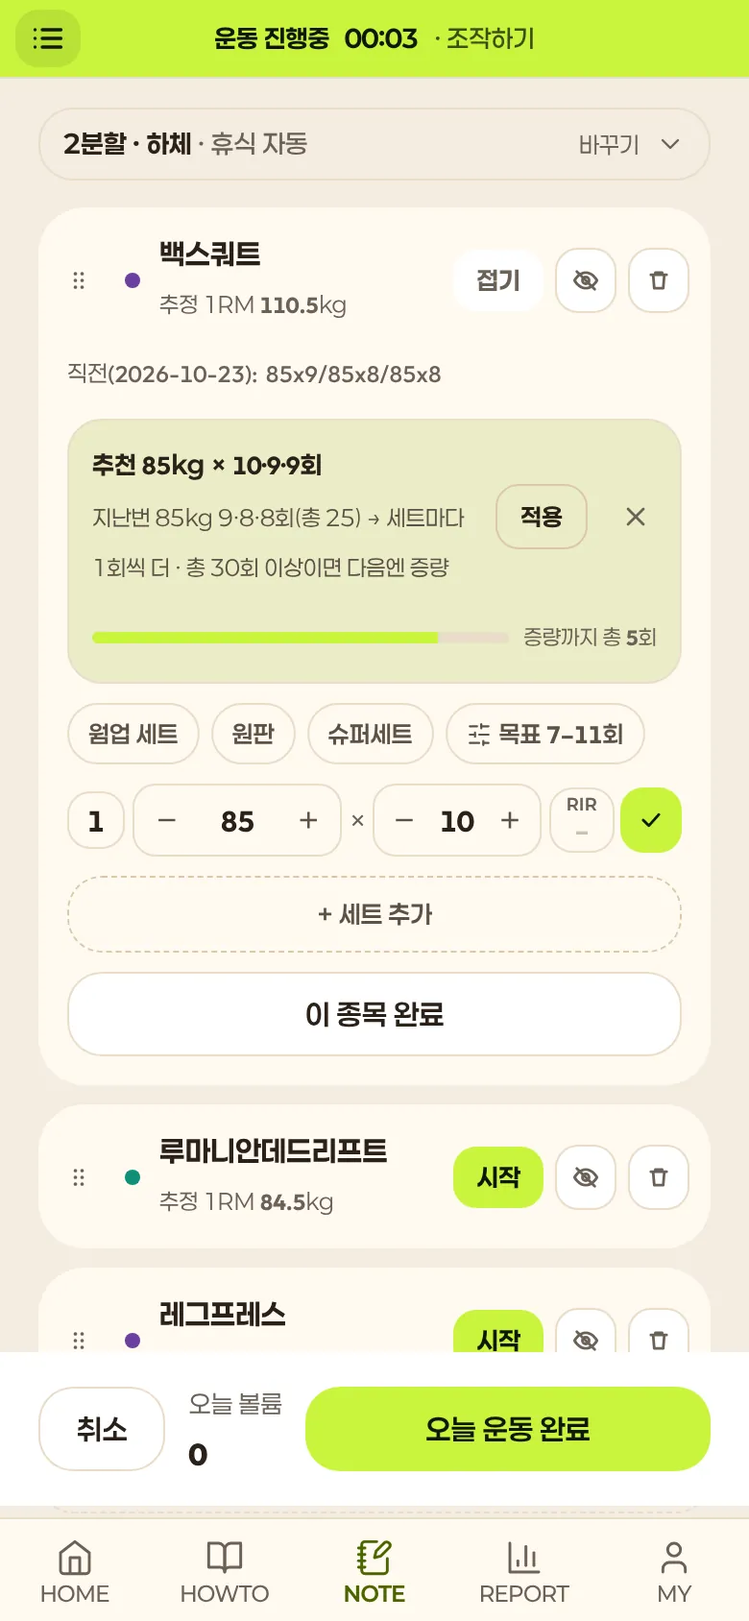
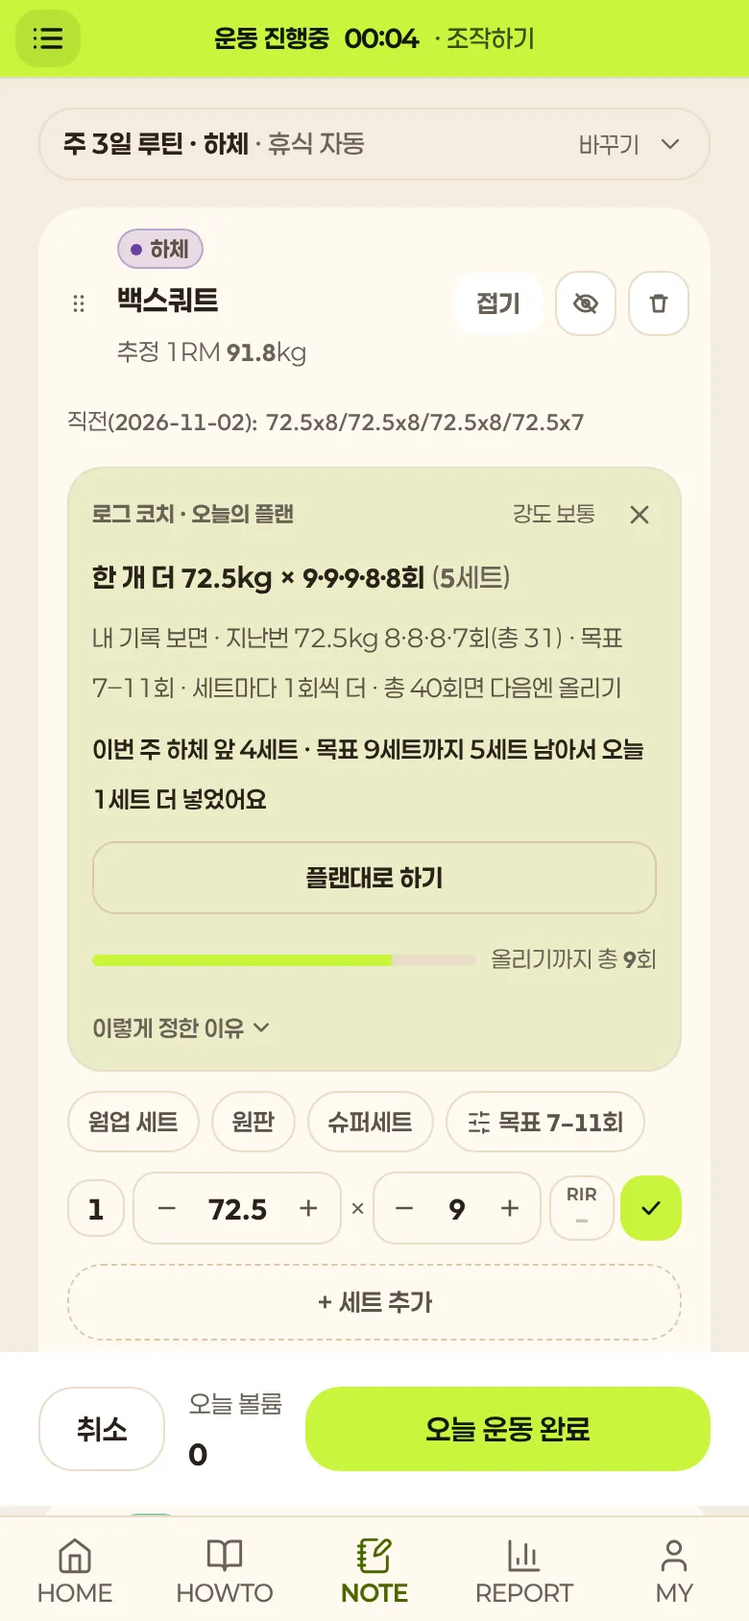
홍보 페이지 최근 업데이트 반영: 로그 코치·주간 프로그램·건강 체력 4가지·체력 점검·트레이너 처방
새 섹션 #coach, 사용법 01·05 문구, PT 섹션 처방, FAQ 2건, 앱 화면 재캡처(list·focus·ptplan·trainer·report) + cap-coach·cap-fitness

Claude-Session: https://claude.ai/code/session_01KGz5zMPNf1Zxehh3rqVVqo

diff --git a/public/intro/index.html b/public/intro/index.html
@@ -3,13 +3,14 @@
      2026-10-31 P2-4: 트레이너 섹션을 트레이너 계획·기록 확인 흐름(트레이너/회원 화면 캡처)으로, 회원 전용·승인 안내 반영.
      앱 기능·규칙이 바뀌면 이 페이지 문구와 데모 규칙(이중 진행, utils/strength.js)도 함께 맞춘다.
      사진: Unsplash(상업 사용 가능, 로고 지움) img/photo-*.webp · 앱 화면: 목업 데이터 캡처 img/cap-*.webp
+     2026-11-07: 로그 코치(오늘의 플랜·강도·내 프로그램 만들기)·건강 체력 4가지·체력 점검 섹션(#coach), 트레이너 처방(로그 코치보다 먼저), 앱 화면 재캡처(list·focus·ptplan·trainer·report + coach·fitness)
      2026-10-31: 줄바꿈은 뜻이 바뀌는 곳에서만(.s.nl), 말덩이(.k) 중간에선 안 끊김 - 문장마다 새 줄은 줄이 너무 많아져 쓰지 않음, 과부하 데모를 '지난번 기록' 표기(횟수만 선택)로, '운동을 돕는 것들'·PT 일정·트레이너 소개·회원권 FAQ, 처리방침·라이선스 링크 -->
 <html lang="ko">
 <head>
 <meta charset="UTF-8" />
 <meta name="viewport" content="width=device-width, initial-scale=1.0, viewport-fit=cover" />
 <title>BodyTailor Log | 내 운동을 기록하면 다음 목표가 보여요</title>
-<meta name="description" content="혼자 하는 날도, PT 받는 날도 이어지는 운동 기록. 분할 예시나 트레이너의 루틴으로 시작하고, 지난번의 나를 기준으로 오늘 몇 kg, 몇 번 할지 알려 주는 바디테일러 PT&amp;헬스 회원용 웨이트 운동 기록 웹앱." />
+<meta name="description" content="혼자 하는 날도, PT 받는 날도 이어지는 운동 기록. 분할 예시, 로그 코치 프로그램, 트레이너의 루틴으로 시작하고, 지난번의 나를 기준으로 오늘 몇 kg, 몇 번 할지 알려 주는 바디테일러 PT&amp;헬스 회원용 웨이트 운동 기록 웹앱." />
 <link rel="canonical" href="https://bodytailor-log.vercel.app/intro/" />
 <!-- 카카오톡 등 인앱 브라우저 → 기본 브라우저로(구글 로그인·홈 화면 추가는 기본 브라우저에서만 됨) -->
 <script src="/inapp.js"></script>
@@ -270,9 +271,9 @@ p,dd,.why,.foot{text-wrap:pretty}
   <div class="wrap">
     <div class="label rv">이렇게 이어져요</div>
     <h2 class="rv d1">계획은 나 또는 트레이너가,<br>기준은 내 기록이에요</h2>
-    <p class="lead rv d2"><span class="s"><span class="k">처음엔 분할 예시나</span> <span class="k">트레이너에게 배운 루틴으로</span> <span class="k">시작하세요.</span></span><span class="s nl"><span class="k">기록이 쌓이면</span> <span class="k">그 기록이 다음 목표가 되고,</span> <span class="k">내 몸에 맞게</span> <span class="k">조금씩 고쳐 가요.</span></span></p>
+    <p class="lead rv d2"><span class="s"><span class="k">처음엔 분할 예시,</span> <span class="k">로그 코치 프로그램,</span> <span class="k">트레이너에게 배운 루틴 중</span> <span class="k">하나로 시작하세요.</span></span><span class="s nl"><span class="k">기록이 쌓이면</span> <span class="k">그 기록이 다음 목표가 되고,</span> <span class="k">내 몸에 맞게</span> <span class="k">조금씩 고쳐 가요.</span></span></p>
     <div class="compare flow rv">
-      <div class="r"><span class="q">계획</span><span class="u">분할 예시로 시작하거나, <em>PT에서 배운 루틴</em>을 그대로 옮겨요</span></div>
+      <div class="r"><span class="q">계획</span><span class="u"><span class="k">분할 예시나 코치 프로그램으로 시작하거나,</span> <span class="k"><em>PT에서 배운 루틴</em>을 그대로 옮겨요</span></span></div>
       <div class="r"><span class="q">기록</span><span class="u">세트 끝나면 <em>체크 한 번</em></span></div>
       <div class="r"><span class="q">기준</span><span class="u"><em>지난번의 나</em></span></div>
       <div class="r"><span class="q">다음 목표</span><span class="u"><span class="k">1회씩</span>, 한 칸씩 <em>조금 더</em></span></div>
@@ -290,11 +291,11 @@ p,dd,.why,.foot{text-wrap:pretty}
 
 <section id="how" data-tone="dark" style="padding-top:90px">
   <div class="wrap">
-    <div class="feat rv"><div class="txt"><div class="n">01</div><h3>하던 운동을 고르면<br>오늘 목표가 나와요</h3><p><span class="s">종목을 다 볼 필요 없어요.</span><span class="s">자주 하는 운동 몇 개로 루틴을 만들면 지난 기록과 오늘 목표가 미리 채워져요.</span><span class="s">"적용"을 누르면 세트마다 목표가 들어가요.</span></p><ul><li>세트별 목표 · 증량까지 남은 횟수</li><li>직전 기록 바로 보기</li></ul></div><div class="phone"><div class="screen"><img class="on" loading="lazy" src="/intro/img/cap-list.webp" alt="기록 화면: 다음 무게 추천과 세트 입력"></div></div></div>
+    <div class="feat rv"><div class="txt"><div class="n">01</div><h3>하던 운동을 고르면<br>오늘 목표가 나와요</h3><p><span class="s">종목을 다 볼 필요 없어요.</span><span class="s"><span class="k">자주 하는 운동 몇 개로 루틴을 만들면</span> <span class="k">로그 코치가 지난 기록을 보고</span> <span class="k">오늘 무게·횟수·세트를 정해 줘요.</span></span><span class="s"><span class="k">"플랜대로 하기"를 누르면</span> <span class="k">세트마다 목표가 들어가요.</span></span></p><ul><li>세트별 목표 · 올리기까지 남은 횟수</li><li>강도는 살살부터 한계까지 5단계</li><li>직전 기록 바로 보기</li></ul></div><div class="phone"><div class="screen"><img class="on" loading="lazy" src="/intro/img/cap-list.webp" alt="기록 화면: 로그 코치 오늘의 플랜과 세트 입력"></div></div></div>
     <div class="feat rev rv"><div class="txt"><div class="n">02</div><h3>세트 끝나면 체크,<br>휴식은 자동으로</h3><p><span class="s"><span class="k">체크하면 쉬는 시간이 바로 시작되고,</span> <span class="k">끝나면 알림으로 알려줘요.</span></span><span class="s">세트가 너무 쉽거나 힘들면 다음 세트 무게도 그 자리에서 제안해요.</span></p><ul><li>목표에 맞춘 휴식 시간</li><li>다음 세트 무게 조정</li></ul></div><div class="phone"><div class="screen"><img class="on" loading="lazy" src="/intro/img/cap-rest.webp" alt="세트 체크 후 휴식 타이머"></div></div></div>
     <div class="feat rv"><div class="txt"><div class="n">03</div><h3>끝나면<br>한 장으로 정리</h3><p>운동 시간·볼륨·신기록·레벨 진행을 보여주고, 오늘 한 부위에 맞는 쿨다운 스트레칭도 추천해요.</p><ul><li>신기록 알림</li><li>레벨·시즌</li></ul></div><div class="phone"><div class="screen"><img class="on" loading="lazy" src="/intro/img/cap-done.webp" alt="운동 완료 요약"></div></div></div>
     <div class="feat rev rv"><div class="txt"><div class="n">04</div><h3>캘린더에서<br>한 달이 한눈에</h3><p><span class="s">날짜마다 운동한 부위와 세트가 색으로 쌓여요.</span><span class="s">지난 기록도 캘린더에서 바로 고칠 수 있어요.</span></p><ul><li>부위별 색 표시</li><li>지난 기록 추가·수정</li></ul></div><div class="phone"><div class="screen"><img class="on" loading="lazy" src="/intro/img/cap-calendar.webp" alt="캘린더 화면"></div></div></div>
-    <div class="feat rv"><div class="txt"><div class="n">05</div><h3>기록이 쌓이면<br>리포트가 보여요</h3><p>부위별 주간 세트, 종목별 최고 기록, 정체된 종목과 유산소 목표까지 한 화면에서 봐요.</p><ul><li>근육별 주간 세트</li><li>최근 개인 기록·정체 감지</li></ul></div><div class="phone"><div class="screen"><img class="on" loading="lazy" src="/intro/img/cap-report.webp" alt="리포트 화면"></div></div></div>
+    <div class="feat rv"><div class="txt"><div class="n">05</div><h3>기록이 쌓이면<br>리포트가 보여요</h3><p><span class="s"><span class="k">이번 주 요약과 건강 체력 4가지부터</span> <span class="k">근육별 주간 세트, 근력 추이,</span> <span class="k">정체된 종목까지</span> <span class="k">한 화면에서 봐요.</span></span></p><ul><li>근육별 주간 세트</li><li>근력 추이·정체 감지</li><li>최근 개인 기록</li></ul></div><div class="phone"><div class="screen"><img class="on" loading="lazy" src="/intro/img/cap-report.webp" alt="리포트 화면: 이번 주 요약과 건강 체력 4가지"></div></div></div>
   </div>
 </section>
 
@@ -309,6 +310,16 @@ p,dd,.why,.foot{text-wrap:pretty}
       <div class="out"><div class="t">앱이 알려 주는 오늘 목표</div><div class="big" id="recBig"></div><div class="why" id="recWhy"></div><div class="bar" id="recBar"><i></i></div><div class="barlabel" id="recBarLabel"></div></div>
       <div class="foot"><span class="s">세트마다 <span class="k">1회씩</span> 늘리다가 목표를 채우면 무게를 올려요.</span><span class="s"><span class="k">많이 모자라면 같은 무게로 한 번 더,</span> <span class="k">두 번 연속이면 약 10% 내려요.</span></span></div>
     </div>
+  </div>
+</section>
+
+<section id="coach" data-tone="dark" style="padding-top:90px">
+  <div class="wrap">
+    <div class="label rv">로그 코치</div>
+    <h2 class="rv d1">질문 10개면<br>내 주간 프로그램</h2>
+    <p class="lead rv d2"><span class="s"><span class="k">무엇부터 할지 막막하면</span> <span class="k">로그 코치에게 물어보세요.</span></span><span class="s nl"><span class="k">근력만이 아니라</span> <span class="k">유산소, 숨찬 운동, 코어·균형까지</span> <span class="k">고르게 챙겨요.</span></span></p>
+    <div class="feat rv" style="margin-top:48px"><div class="txt"><h3>몇 가지만 답하면<br>일주일 계획이 나와요</h3><p><span class="s"><span class="k">목표, 주당 일수, 한 번에 쓸 시간,</span> <span class="k">운동 경험, 잠 같은 질문 10개에 답하면</span> <span class="k">주간 프로그램을 짜 줘요.</span></span><span class="s"><span class="k">운동 중에는 로그 코치가</span> <span class="k">그 프로그램의 세트·횟수대로 안내해요.</span></span></p><ul><li>주당 일수·시간에 맞춘 분할</li><li>근력·유산소·인터벌·코어를 한눈에</li><li>목표가 바뀌면 다시 만들기</li></ul></div><div class="phone"><div class="screen"><img class="on" loading="lazy" src="/intro/img/cap-coach.webp" alt="로그 코치가 짠 주간 프로그램"></div></div></div>
+    <div class="feat rev rv"><div class="txt"><h3>오래 쓰는 체력,<br>건강 체력 4가지</h3><p><span class="s"><span class="k">겉모습만이 아니라</span> <span class="k">나이 들어서도 들고, 오르고,</span> <span class="k">일어나는 힘을 챙겨요.</span></span><span class="s"><span class="k">리포트에서 이번 주 근력·유산소·</span><span class="k">숨찬 운동·코어·균형을 얼마나 채웠는지 보고,</span> <span class="k">석 달에 한 번 체력 점검으로</span> <span class="k">지난번의 나와 비교해요.</span></span></p><ul><li>매달리기·벽 앉기·들고 걷기·악력 등 6가지</li><li>점수를 매기지 않고 지난번과 비교만</li><li>PT 회원은 담당 트레이너도 함께 봐요</li></ul></div><div class="phone"><div class="screen"><img class="on" loading="lazy" src="/intro/img/cap-fitness.webp" alt="체력 점검: 지난번과 비교"></div></div></div>
   </div>
 </section>
 
@@ -352,19 +363,20 @@ p,dd,.why,.foot{text-wrap:pretty}
     <div>
       <div class="label rv">PT 회원이라면</div>
       <h2 class="rv d1">트레이너가 짠 계획,<br>혼자 하는 날도 그대로</h2>
-      <p class="lead rv d2"><span class="s">트레이너가 앱으로 운동 계획과 메모를 보내면 회원의 기록 화면에 바로 나타나요.</span><span class="s"><span class="k">회원은 그 계획대로 기록하고,</span> <span class="k">트레이너는 쌓인 기록을 보며 다음 수업을 준비해요.</span></span></p>
+      <p class="lead rv d2"><span class="s"><span class="k">트레이너가 앱으로 운동 계획과 처방을 보내면</span> <span class="k">회원의 기록 화면에 바로 나타나요.</span></span><span class="s"><span class="k">회원은 그 계획대로 기록하고,</span> <span class="k">트레이너는 쌓인 기록을 보며 다음 수업을 준비해요.</span></span></p>
       <dl class="rv d1">
-        <dt>트레이너가 계획을 보내요</dt><dd>부위·종목에 "스쿼트 5×5" 같은 메모까지 회원 루틴에 바로 들어가요.</dd>
+        <dt>트레이너가 계획을 보내요</dt><dd>부위·종목과 메모가 회원 루틴에 바로 들어가요.</dd>
+        <dt>트레이너 처방이 먼저예요</dt><dd><span class="s"><span class="k">종목마다 세트·횟수·강도를 정해 보내면,</span> <span class="k">그 계획으로 운동하는 날은</span> <span class="k">로그 코치보다 트레이너 처방을 먼저 따라요.</span></span><span class="s"><span class="k">무게는 회원의 지난 기록에 맞춰</span> <span class="k">처방한 횟수 안에서 정해요.</span></span></dd>
         <dt>혼자 하는 날도 계획대로</dt><dd>PT 받는 날과 혼자 하는 날의 기록이 한곳에 이어져요.</dd>
-        <dt>트레이너가 기록을 확인해요</dt><dd>담당 트레이너가 운동 기록과 키·몸무게·운동 목표를 함께 보고 다음 수업을 준비해요.</dd>
+        <dt>트레이너가 기록을 확인해요</dt><dd><span class="s"><span class="k">담당 트레이너가 운동 기록과</span> <span class="k">키·몸무게·운동 목표를 함께 보고</span> <span class="k">다음 수업을 준비해요.</span></span><span class="s">처방대로 했는지도 날짜별로 비교해요.</span></dd>
         <dt>PT 일정과 남은 횟수</dt><dd><span class="s"><span class="k">트레이너가 잡은 PT 일정이 내 캘린더에 표시되고,</span> <span class="k">다음 PT가 홈에 보여요.</span></span><span class="s">남은 PT 횟수도 MY에서 확인해요.</span></dd>
         <dt>트레이너를 미리 알아봐요</dt><dd><span class="s">HOWTO와 MY에서 바디테일러 트레이너의 경력·전문 분야·소개를 볼 수 있어요.</span></dd>
         <dt>처음이거나 자세가 불안하면</dt><dd><span class="s">무게보다 자세가 먼저예요.</span><span class="s">트레이너에게 직접 배우는 게 가장 빠르고 안전해요.</span><span class="s">통증이 있으면 운동을 멈추고 상의하세요.</span></dd>
       </dl>
     </div>
     <div class="ptshots rv d2">
-      <figure><div class="phone"><div class="screen"><img class="on" loading="lazy" src="/intro/img/cap-trainer.webp" alt="트레이너 화면: 담당 회원의 운동 계획과 기록"></div></div><figcaption>트레이너 화면</figcaption></figure>
-      <figure><div class="phone"><div class="screen"><img class="on" loading="lazy" src="/intro/img/cap-ptplan.webp" alt="회원 화면: 트레이너 계획과 메모가 보이는 기록 화면"></div></div><figcaption>회원 화면</figcaption></figure>
+      <figure><div class="phone"><div class="screen"><img class="on" loading="lazy" src="/intro/img/cap-trainer.webp" alt="트레이너 화면: 담당 회원의 운동 계획과 처방"></div></div><figcaption>트레이너 화면</figcaption></figure>
+      <figure><div class="phone"><div class="screen"><img class="on" loading="lazy" src="/intro/img/cap-ptplan.webp" alt="회원 화면: 트레이너 처방이 먼저 보이는 기록 화면"></div></div><figcaption>회원 화면</figcaption></figure>
     </div>
   </div>
 </section>
@@ -377,7 +389,8 @@ p,dd,.why,.foot{text-wrap:pretty}
       <details><summary>누가 쓸 수 있나요?</summary><p><span class="s">바디테일러 PT&amp;헬스 회원 전용이에요.</span><span class="s"><span class="k">구글 계정으로 로그인하고 이름과 휴대폰 번호를 입력하면,</span> <span class="k">헬스장에서 회원인지 확인한 뒤 승인해 드려요.</span></span><span class="s">승인되면 바로 쓸 수 있어요.</span></p></details>
       <details><summary>언제까지 쓸 수 있나요?</summary><p><span class="s">앱 사용 기간은 헬스장 회원권 기간과 같아요.</span><span class="s">끝나기 <span class="k">7일 전부터</span> 앱에서 알려 드려요.</span><span class="s"><span class="k">회원권이 끝나면 새 기록은 남길 수 없지만,</span> <span class="k">지난 기록과 리포트는 계속 볼 수 있어요.</span></span></p></details>
       <details><summary>PT 회원은 트레이너와 어떻게 연결하나요?</summary><p><span class="s">헬스장에 담당 트레이너를 알려 주시면 앱에서 연결해 드려요.</span><span class="s"><span class="k">연결되면 트레이너가 보낸 계획이 내 루틴에 "트레이너 계획"으로 나타나고,</span> <span class="k">MY 화면에서 담당 트레이너를 확인할 수 있어요.</span></span><span class="s">원하면 직접 연결을 해제할 수도 있어요.</span></p></details>
-      <details><summary>운동 계획은 어떻게 세우나요?</summary><p><span class="s">처음 루틴을 만들 때 주당 운동 일수에 맞는 분할 예시를 보여줘요.</span><span class="s"><span class="k">운동을 처음 한다면 트레이너가 짜준 계획을 따르는 게 가장 좋고,</span> <span class="k">PT에서 배운 루틴을 그대로 내 루틴으로 옮겨 기록하면 돼요.</span></span></p><p><span class="s">다만 내 몸과 그날 컨디션은 내가 가장 잘 알아요.</span><span class="s"><span class="k">좋은 트레이너도 다른 사람의 몸 상태를 100% 알 수는 없으니,</span> <span class="k">기록을 보며 내 몸에 맞게 조금씩 고쳐 가요.</span></span><span class="s">몸이 평소와 다르거나 아프다면 추천보다 몸의 신호를 먼저 따르세요.</span></p></details>
+      <details><summary>운동 계획은 어떻게 세우나요?</summary><p><span class="s">처음 루틴을 만들 때 주당 운동 일수에 맞는 분할 예시를 보여줘요.</span><span class="s"><span class="k">로그 코치에게 질문 10개로</span> <span class="k">주간 프로그램을 받을 수도 있어요.</span></span><span class="s"><span class="k">운동을 처음 한다면 트레이너가 짜준 계획을 따르는 게 가장 좋고,</span> <span class="k">PT에서 배운 루틴을 그대로 내 루틴으로 옮겨 기록하면 돼요.</span></span></p><p><span class="s">다만 내 몸과 그날 컨디션은 내가 가장 잘 알아요.</span><span class="s"><span class="k">좋은 트레이너도 다른 사람의 몸 상태를 100% 알 수는 없으니,</span> <span class="k">기록을 보며 내 몸에 맞게 조금씩 고쳐 가요.</span></span><span class="s">몸이 평소와 다르거나 아프다면 추천보다 몸의 신호를 먼저 따르세요.</span></p></details>
+      <details><summary>로그 코치와 트레이너 처방이 다르면요?</summary><p><span class="s">트레이너 계획으로 운동하는 날은 트레이너 처방이 먼저예요.</span><span class="s"><span class="k">혼자 내 루틴이나 코치 프로그램으로 하는 날은</span> <span class="k">로그 코치가 내 기록으로 정해요.</span></span><span class="s">로그 코치는 MY › 설정에서 끌 수도 있어요.</span></p></details>
       <details><summary>운동을 처음 해도 쓸 수 있나요?</summary><p><span class="s">쓸 수 있어요.</span><span class="s">다만 기본 자세는 트레이너에게 먼저 배우는 걸 권해요.</span><span class="s">처음 8주는 주간 세트 기준을 낮게 잡아줘요.</span></p></details>
       <details><summary>목표(근육·체지방·체력 등)에 따라 달라지나요?</summary><p><span class="s">네.</span><span class="s"><span class="k">고른 목표에 맞춰 목표 횟수, 쉬는 시간,</span> <span class="k">부위별 주간 세트 기준이 바뀌어요.</span></span></p></details>
       <details><summary>앱을 설치해야 하나요?</summary><p><span class="s">브라우저에서 바로 쓸 수 있어요.</span><span class="s">홈 화면에 추가하면 앱처럼 열려요.</span><span class="s"><span class="k">아이폰은 사파리 공유 버튼 → "홈 화면에 추가",</span> <span class="k">안드로이드는 크롬 메뉴 → "홈 화면에 추가"예요.</span></span></p></details>

diff --git a/src/App.jsx b/src/App.jsx
@@ -1,6 +1,6 @@
 /**
  * CHANGELOG: 이 파일 상단 주석이 20줄을 넘어 CHANGELOG.md(저장소 루트)로 분리했습니다.
- * 최신 변경: [2026-11-07] 트레이너 처방(트레이너 계획에 종목별 세트·횟수·강도 → 회원 운동 화면에서 로그 코치보다 먼저 따름, rules trainerRx).
+ * 최신 변경: [2026-11-07] 홍보 페이지 반영(로그 코치·프로그램·건강 체력·체력 점검·트레이너 처방, 앱 화면 재캡처). 같은 날: 트레이너 처방(트레이너 계획에 종목별 세트·횟수·강도 → 회원 운동 화면에서 로그 코치보다 먼저 따름, rules trainerRx).
  *            직전: [2026-11-07] 전체 점검 반영(코치 프로그램 수정·버티기 단위·겹쳐 띄우기·프로그램 목표 기준 등). 같은 날: 체력 점검·REPORT 건강 체력 4가지·생활 체력 종목(파머스캐리·데드행·월싯). 같은 날: 로그 코치 '내 프로그램 만들기'(질문 10개 → 주간 프로그램 → 코치 프로그램 루틴, 운동 중 처방 따름, 트레이너 계획 우선).
  *            직전: [2026-11-03] 트레이너 태블릿 화면 개편(월 캘린더·회원 타일·종목별 날짜 비교 표). 같은 날: 로그 코치 켜기·끄기, 주간 세트 채우기·쉬어 가는 주·플랜 유지·운동 순서·유산소 코칭. 같은 날: 로그 코치 최근 연구 반영·강도 전체 설정. 같은 날·전날: 로그 코치(오늘의 플랜·강도 5단계·최근 평균·권장 세트 수·코치 한마디·연구 근거). 같은 날: 관리자 겸 트레이너(trainerEnabled), PT 등록 버튼, 트레이너 화면 태블릿 두 칸. 같은 날: 회원·트레이너 점검 반영(HOME 추천 일치, 알림 누르면 기록 탭, 드롭·실패·RIR 표시, 트레이너 진행 요약, 세트 종류만 바꾸면 볼륨에 들어가던 문제). 같은 날: 운동 끝나면 휴식 알림 닫기, 포커스형 세트 칸 눌러 종류 변경. 같은 날: 상단 진행 바 '기록탭으로' 후 접기·유산소 타이머 표시. 같은 날: 스트레칭 기구 필터·9종, 포커스형 세트 종류 칩·기본값, 긴 이름 줄바꿈, 부위 배지, 완료 확인창. 같은 날: 알림 눌러 앱 열기(sw notificationclick). 같은 날: 커밋 보관 브랜치 wip(배포 안 함) + 작업 지침 2-0. 같은 날: 세션 환경 판별·클라우드 커밋·푸시 절차. 같은 날: 로그인·온보딩 화면 폰트를 페이퍼로지로.
  *            직전: [2026-11-01] 2차 점검 반영(랭킹 시즌 평균, 미결제 PT, 트레이너 HOME PT 카드·메모, 전체 내보내기, memberPrivate 분리, App Check, 기록 트랜잭션).

diff --git a/CLAUDE.md b/CLAUDE.md
@@ -198,7 +198,7 @@
 - 홈 화면 설치 안내(2026-10-31, `InstallBanner.jsx`): 설치 신호(beforeinstallprompt)가 오면 "설치" 버튼, 없으면 OS·브라우저별 수동 경로(iOS 사파리·크롬 공유→홈 화면에 추가, 기타 iOS는 사파리 안내, 안드로이드 삼성·파이어폭스·웨일·크롬 메뉴, 맥 사파리 Dock). 안드로이드·PC는 3초 기다린 뒤 수동 안내, PC 파이어폭스 등은 표시 안 함. 닫으면 7일 숨김, standalone·인앱에선 표시 안 함.
 - **홍보 페이지** `/intro/`(2026-10-29, 2026-10-30 전면 개편): `public/intro/index.html` 단일 정적 파일(인라인 CSS/JS, 앱 번들과 분리). 구성: 전면 사진 히어로 → 흐름 표(계획은 나 또는 트레이너가 → 기록 → 기준은 지난번의 나 → 다음 목표) → 기능 5개(큰 휴대폰 화면 지그재그: 오늘 목표·자동 휴식·완료 요약·캘린더·리포트) → 점진적 과부하 데모(utils/strength.js 규칙과 동일) → 기록 방식(리스트형/포커스형) → 트레이너 → FAQ. 섹션별 `data-tone`으로 다크·베이지 교차. 이미지 경로는 반드시 절대 경로 `/intro/img/…`(Vercel은 `/intro`를 슬래시 없이도 열어 상대 경로가 깨짐, 2026-10-31). 사진 `img/photo-*.webp`(Unsplash 무료 라이선스, 사진 속 상표 로고는 지움), 앱 화면 `img/cap-*.webp`(목업 데이터 캡처 - 실제 사용자 기록 금지, 앱 폰트가 적용됐는지 확인: 캡처 브라우저는 서비스워커 차단), 로고는 `/icon-192.png`, 공유 이미지 `og.png`.
   - 문구 원칙: PT를 낮추지 않는다("PT 없이도" 금지) - 혼자 운동하는 날의 기록 도구, 어려우면 트레이너를 권한다. 계획(분할 예시·트레이너 루틴)을 깎아내리지 않는다("짜준 운동 대신" 금지, 2026-10-31 - 초보에게는 짜준 계획이 필요). 다른 앱 이름을 쓰지 않는다. "무료" 표현 쓰지 않음(헬스장 회원용, 2026-10-31). 시작하기 옆 헬스장 네이버 블로그(blog.naver.com/bodytailor)·인스타그램(instagram.com/body_tailor_pt) 버튼. 아직 없는 기능(회원 승인·트레이너 연동)은 만들기 전까지 소개하지 않는다. 종목 수·성취 수 같은 숫자로 압도하지 않고 쉽게. 근거 없는 사용자 수·후기 금지. ksa-on.space와 같은 레이아웃(좌 글·우 휴대폰 히어로, 휴대폰 주변 떠다니는 배지, 아이콘 카드 3열)은 쓰지 않는다. 앱 기능·규칙이 바뀌면 문구·데모도 함께 맞춘다.
-  - **줄바꿈(2026-10-31 사용자 지적·미리보기 B 확정)**: 문장 중간("오늘 몇 / kg")에서 끊기지 않게 말덩이를 `<span class="k">`로 묶는다(그 단위로만 줄바꿈). 문장(`.s`)은 이어 쓰고, 뜻이 바뀌는 곳에서만 `.s.nl`로 새 줄 - 문장마다 새 줄은 줄이 너무 많아져 쓰지 않는다. 새 문구도 같은 방식. **`.k`/`.s` 묶음은 화면에 보이는 본문에만** 넣는다(meta·title·alt 같은 속성값이나 `<script>` 문자열 안에 넣으면 태그가 그대로 노출됨, 2026-10-31 사고). 일괄 치환 대신 본문 요소만 고친다. 과부하 데모의 '지난번 기록'은 앱 입력 화면(±)처럼 보이지 않게 기록 표기(60kg × 9회, 횟수만 선택). '헬스장 인터넷이 약하면요?' FAQ는 넣지 않는다. 과부하 데모는 숫자를 고르는 입력 대신 예시 4가지 자동 전환(누르면 선택). 기록 방식은 휴대폰에서 탭 → 미리보기 → 설명 순서. 섹션 배경(2026-11-01 사용자 확정): 섹션은 투명, 화면 전체 배경색(body)을 스크롤 위치에 따라 검정·베이지 사이로 연속 보간(경계가 화면 55% 지점을 지나는 동안 화면 높이 절반에 걸쳐 섞음 - 화면 전체가 환해지는 느낌). 사진 섹션 가장자리는 mask로 투명하게 녹임. 경계 그라데이션 띠(.fade) 방식은 환해지는 느낌이 없어 폐기. 구성에 '운동을 돕는 것들'(목표 맞춤·가이드·스트레칭·레벨) 표, PT 섹션에 PT 일정·트레이너 소개, FAQ에 회원권 기간.
+  - **줄바꿈(2026-10-31 사용자 지적·미리보기 B 확정)**: 문장 중간("오늘 몇 / kg")에서 끊기지 않게 말덩이를 `<span class="k">`로 묶는다(그 단위로만 줄바꿈). 문장(`.s`)은 이어 쓰고, 뜻이 바뀌는 곳에서만 `.s.nl`로 새 줄 - 문장마다 새 줄은 줄이 너무 많아져 쓰지 않는다. 새 문구도 같은 방식. **`.k`/`.s` 묶음은 화면에 보이는 본문에만** 넣는다(meta·title·alt 같은 속성값이나 `<script>` 문자열 안에 넣으면 태그가 그대로 노출됨, 2026-10-31 사고). 일괄 치환 대신 본문 요소만 고친다. 과부하 데모의 '지난번 기록'은 앱 입력 화면(±)처럼 보이지 않게 기록 표기(60kg × 9회, 횟수만 선택). '헬스장 인터넷이 약하면요?' FAQ는 넣지 않는다. 과부하 데모는 숫자를 고르는 입력 대신 예시 4가지 자동 전환(누르면 선택). 기록 방식은 휴대폰에서 탭 → 미리보기 → 설명 순서. 섹션 배경(2026-11-01 사용자 확정): 섹션은 투명, 화면 전체 배경색(body)을 스크롤 위치에 따라 검정·베이지 사이로 연속 보간(경계가 화면 55% 지점을 지나는 동안 화면 높이 절반에 걸쳐 섞음 - 화면 전체가 환해지는 느낌). 사진 섹션 가장자리는 mask로 투명하게 녹임. 경계 그라데이션 띠(.fade) 방식은 환해지는 느낌이 없어 폐기. 구성에 '운동을 돕는 것들'(목표 맞춤·가이드·스트레칭·레벨) 표, PT 섹션에 PT 일정·트레이너 소개, FAQ에 회원권 기간. (2026-11-07) '로그 코치' 섹션(#coach: 질문 10개 주간 프로그램 cap-coach, 건강 체력 4가지·체력 점검 cap-fitness)을 과부하 데모 다음에, PT 섹션에 '트레이너 처방이 먼저예요', FAQ '로그 코치와 트레이너 처방이 다르면요?'. 캡처는 전체 앱 목업 하네스에서 390×844·2배(폰트는 하네스가 로컬 파일로 대신 제공 - Paperlogy는 github projectnoonnu/2408-3 v1.0 클론, Outfit·Pretendard는 npm 패키지).
 
 ### 7.4 리포트 · 홈 인사이트
 - **REPORT 구성(2026-10-31 개편, 트레이너·분석 관점)**: 이번 주 요약(`ReportSections.WeekSummaryCard`) → 근육별 주간 세트 → 근력 추이(`StrengthTrendCard`: 종목별 추정 1RM 8주, ±2% 기준 상승·정체·하락) → 정체·회복 → 부위별 주간 세트 8주 표(`WeeklySetsHeatmap`, fractionalSetsByAtom) → 유산소·균형·골밀도 → 최근 개인 기록 → 많이 한 운동(8주 본세트) → 랭킹(상위 10명 + 나, `RankingList`) → 다른 회원들이 즐겨하는 운동. 누적 레이더·회차별 향상 목록은 없앴다(단위 혼합·누적값이라 분석 가치 낮음). 랭킹의 다른 회원 닉네임은 `maskName`(첫 글자 + *)으로만, leaderboard 저장도 가린 닉네임. 앱 문구는 '유저' 대신 '회원'.

diff --git a/CHANGELOG.md b/CHANGELOG.md
@@ -2,6 +2,8 @@
 
 (20줄 초과로 src/App.jsx 상단 주석에서 이 파일로 분리됨)
 
+[2026-11-07] 홍보 페이지 최근 업데이트 반영: ① 새 섹션 '로그 코치'(#coach, 점진적 과부하 데모 다음): 질문 10개 주간 프로그램, 건강 체력 4가지·체력 점검(점수 없이 지난번과 비교, PT 회원은 트레이너도 봄) ② 사용법 01을 로그 코치 오늘의 플랜·'플랜대로 하기'·강도 5단계로, 05 리포트에 건강 체력 4가지·근력 추이 ③ 흐름 표·설명에 코치 프로그램 ④ PT 섹션에 '트레이너 처방이 먼저예요'·처방대로 비교 ⑤ FAQ: 계획 세우기에 코치 프로그램, '로그 코치와 트레이너 처방이 다르면요?' 추가 ⑥ 앱 화면 재캡처(목업 데이터, 앱 폰트): cap-list·focus·ptplan·trainer·report, 새 cap-coach·cap-fitness | public/intro/index.html, public/intro/img/cap-*.webp
+
 [2026-11-07] 트레이너 처방(사용자 결정: 트레이너 처방 > 로그 코치, 범위는 세트·횟수·강도, 무게는 코치가 정함): ① 트레이너 계획 만들기·수정에 '종목별 처방'(종목마다 세트 1–8·횟수 범위(버티기는 초)·강도 5단계 또는 회원 설정, 비우면 로그 코치 기준, 숫자가 틀리면 저장 막음) - RoutineSetup TrainerRxEditor, routineTemplates.trainerRx(storage saveTrainerPlan, 계획에 남은 종목만·cleanTrainerRx로 정리) ② 회원이 그 계획으로 운동하면 우선순위 트레이너 처방 → 코치 프로그램 → 기본값(strength getProgramRx·getRepRange·intensityOf가 setting.trainerRx를 먼저, 회원 종목 설정 목표 횟수보다도 먼저). 처방 종목은 쉬어 가는 주·주간 세트 채우기로 세트 수를 바꾸지 않고 신호만 안내(WorkoutInput coachPlanFor) ③ 운동 화면 종목 카드에 '트레이너 처방 4세트 × 6–8회 · 강도 세게' 줄(코치 플랜 카드 위, 로그 코치를 꺼도 보임), 코치 강도 표시·'이렇게 정한 이유'도 처방 기준, 종목 설정 창은 처방 중이면 목표 횟수 대신 안내(휴식만 바꿔도 처방 숫자가 내 설정으로 저장되지 않게 ownRange) ④ HOME '오늘 올리기'도 트레이너 계획 차례면 같은 기준(HomeTab) ⑤ 트레이너 회원 화면: 계획 카드에 '처방 N종목', 태블릿 종목별 표에 '내 처방' 줄과 그 계획으로 한 날 '처방대로/처방보다 적게'(TraineesScreen rxCheck) ⑥ firestore.rules: trainerPlanOk에 trainerRx(map, 80개 이하), 회원은 trainerRx를 넣거나 바꿀 수 없음 - 배포 후 콘솔 규칙 게시 필요 | RoutineSetup.jsx, WorkoutInput.jsx, SetEditors.jsx, HomeTab.jsx, TraineesScreen.jsx, storage.js, utils/strength.js, firestore.rules
 
 [2026-11-07] 전체 점검 반영(사용자 입장, 점검 문서 claude/BodyTailor_Log_전체점검_20261107.md, 결정: 겹쳐 띄우기·프로그램 숫자 기준·다시 만들기 안내·전부): ① 코치 프로그램 루틴 수정·운동 중 종목 추가에 종목이 안 나오던 문제(파트 atoms 사용 getAtomsForPart) ② 옛 규칙에서 탈퇴가 멈추던 문제(체력 점검 삭제 건너뜀) ③ 인터벌 주 1번(이번 주 이미 했으면 그날은 대화되는 강도 안내, 시간에 맞춘 인터벌 문구) ④ 버티기 종목 단위: 목표·설정·코치 문구 '초', 설정 5초 단위·최대 300초, 입력 ±5초, RIR·웜업 칩 숨김, 트레이너 표 '초', 직전 기록 '초' ⑤ 체력 점검·코치 프로그램은 탭 위에 겹쳐 띄움(운동 중 휴식 타이머 유지), 운동 중에는 프로그램 저장 막음 ⑥ 첫 운동·버티기 종목에 '내 프로그램 N세트 × 목표' 한 줄 ⑦ 코치 프로그램이 있으면 HOME·REPORT·코치의 주간 유산소·부위별 세트 목표를 프로그램 숫자로(programTargets), 프로그램 종목에는 주간 세트 채우기(+1세트) 안 함, MY에서 목표·일수를 바꾸면 '다시 만들까요?' ⑧ 프로그램 계산: 고른 시간 맞추기(유산소 → 세트 → 종목 순서로 줄임, 종목별 세트 시간), 부위별 주간 상한(하체 1.7배), '계단·균형' 답이면 한 다리 운동 확보, 밀기·당기기 종목 순서(삼두·이두 확보), 전신 분할 빈도 문구, 유산소가 목표보다 적을 때 이유 안내, 생활 체력 동작은 코어 1종목을 대신하지 않음 ⑨ HOME이 기록 탭 상태에 따라 처방을 다르게 쓰던 문제(전역 상태 → 종목 설정 noProgram) ⑩ '두 번 연속' 감량을 같은 무게일 때만 ⑪ 트레이너 회원 화면 PT 줄 넘침 ⑫ 기기 뒤로가기: 위저드는 이전 질문, 체력 점검 입력은 입력만 닫기 ⑬ 본세트 수 HOME·완료 요약도 유산소 제외 ⑭ 데드행·월싯은 등·하체 0.5세트 ⑮ 체력 점검: 들고 걷기는 무게×시간 %로 비교, 심폐 추정 단위, 날짜 줄바꿈, 시작 무게 안내 통일 ⑯ 직전 기록 줄바꿈, '동작 이미지' 문구, 결과 화면 순서 줄바꿈, 파머스캐리를 먼저 열 때 순서 안내 안 뜸 | programBuilder.js, strength.js, coach.js, goals.js, exerciseLibrary.js(getAtomsForPart), fitnessCheck.js, load.js, App.jsx, WorkoutInput.jsx, SetEditors.jsx, RoutineSetup.jsx, CoachProgramWizard.jsx, FitnessCheckScreen.jsx, InsightCards.jsx, HomeTab.jsx, MyPageTab.jsx, TraineesScreen.jsx, storage.js, CLAUDE.md
